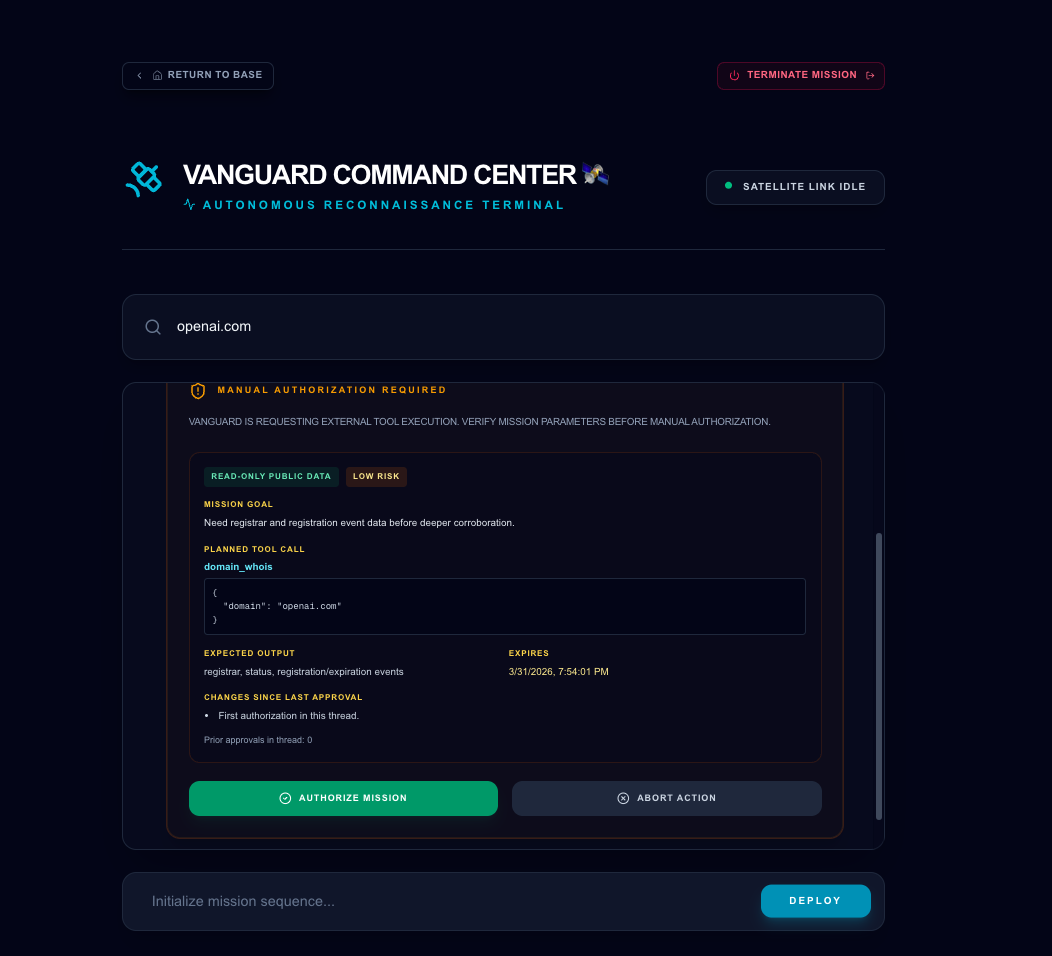
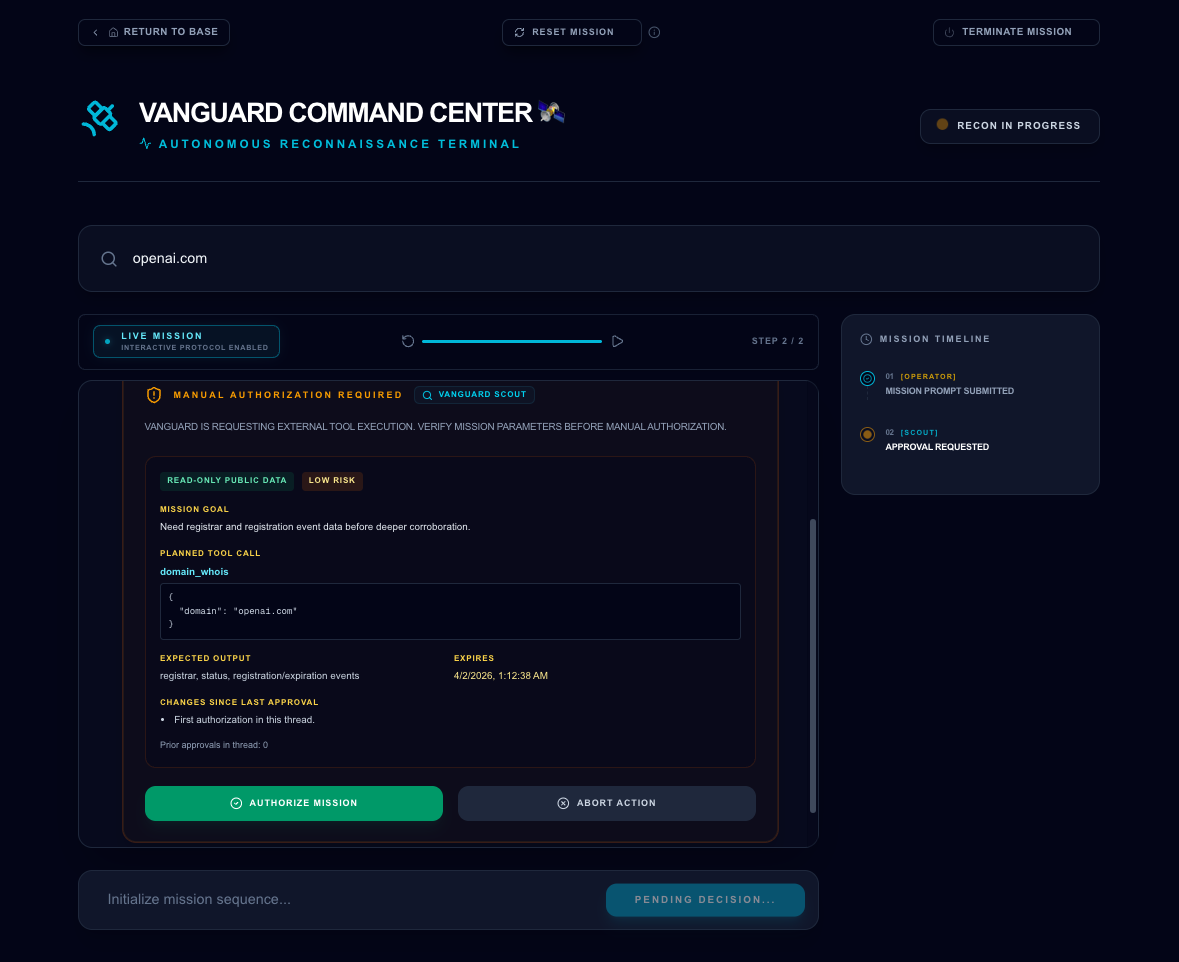
docs: update readme shots of enhanced UI

diff --git a/README.md b/README.md
@@ -31,17 +31,29 @@ Here is how Vanguard differs from a standard AI chat:
 
 **Vanguard Command Center** - _Autonomous Reconnaissance Terminal_
 
-> 1. Vanguard Command Stream - Mission Timeline
+> 1. Vanguard Command Stream - Empty State
 
-## ![Vanguard Command Stream - Mission Timeline](./docs/assets/vanguard-command-stream-mission-timeline.png)
+## ![Vanguard Command Stream - Empty State](./docs/assets/vanguard-command-empty-state.png)
 
-> 2. Vanguard Command Stream - Authorization Step
+> 2. Vanguard Command Stream - Mission Timeline
+
+## ![Vanguard Command Stream - Mission Timeline](./docs/assets/vanguard-command-mission-timeline.png)
+
+> 3. Vanguard Command Stream - Authorization Step
 
 ## ![Vanguard Command Stream - Authorization Step](./docs/assets/vanguard-command-authorization.png)
 
-> 3. Vanguard Command Stream - Findings
+> 4. Vanguard Command Stream - Restored Session
 
-## ![Vanguard Command Stream - Findings](./docs/assets/vanguard-command-stream-findings.png)
+## ![Vanguard Command Stream - Restored Session](./docs/assets/vanguard-command-restored-session.png)
+
+> 5. Vanguard Command Stream - Control Buttons
+
+## ![Vanguard Command Stream - Return to Base Buttons](./docs/assets/vanguard-command-return-to-base-button.png)
+
+## ![Vanguard Command Stream - Return to Base Buttons](./docs/assets/vanguard-command-reset-mission-button.png)
+
+## ![Vanguard Command Stream - Terminate Mission Button](./docs/assets/vanguard-command-terminate-mission-button.png)
 
 ---
 